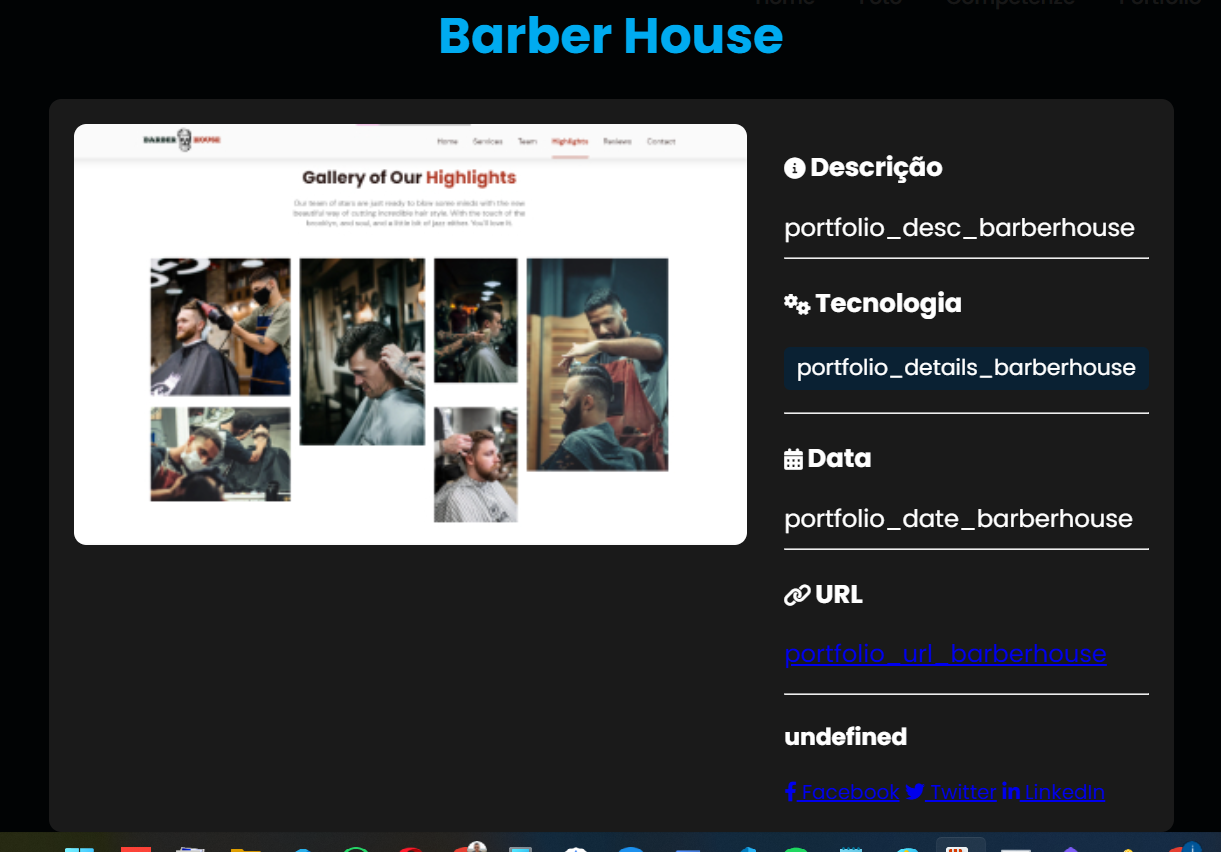
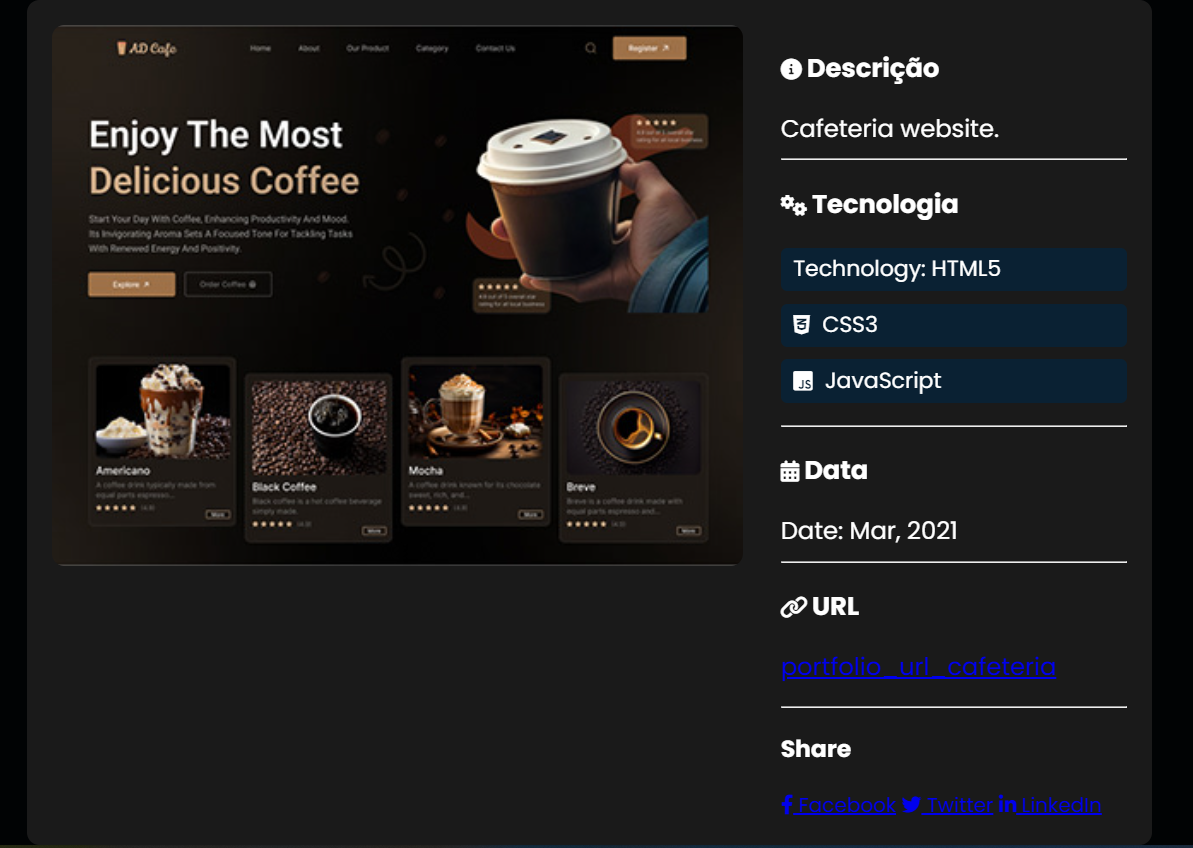
feat: Remove tópicos de Data, URL e Share do modal do portfólio e atualiza CSS.

diff --git a/script.js b/script.js
@@ -158,16 +158,8 @@ document.addEventListener('DOMContentLoaded', function() {
                 const title = item.querySelector('.portfolio-title').textContent; // This title is not i18n, it's from the item itself
                 const descriptionKey = item.dataset.description;
                 const detailsKey = item.dataset.details;
-                const dateKey = item.dataset.date;
-                const urlKey = item.dataset.url;
-
-                modalImage.src = imgSrc;
-                modalTitle.textContent = title; // Keep this as it is the project title
-
                 const description = translations[descriptionKey] || descriptionKey;
                 const details = translations[detailsKey] || detailsKey;
-                const date = translations[dateKey] || dateKey;
-                const url = translations[urlKey] || urlKey;
 
                 let detailsHtml = '<h3><i class="fas fa-info-circle"></i> Descrição</h3>';
                 detailsHtml += `<p>${description}</p><hr>`;
@@ -202,24 +194,8 @@ document.addEventListener('DOMContentLoaded', function() {
                 detailsHtml += '<h3><i class="fas fa-cogs"></i> Tecnologia</h3>';
                 detailsHtml += `<ul class="technologies">${techHtml}</ul>`;
 
-                if (date) {
-                    detailsHtml += `<hr><h3><i class="fas fa-calendar-alt"></i> Data</h3><p>${date}</p>`;
-                }
-                if (url && url !== "") {
-                    detailsHtml += `<hr><h3><i class="fas fa-link"></i> URL</h3><p><a href="${url}" target="_blank">${url}</a></p>`;
-                }
-
                 modalDescription.innerHTML = detailsHtml;
                 modalDetails.innerHTML = ''; // Clear the old details
-
-                // Populate modalShare with sharing options
-                modalShare.innerHTML = `
-                    <hr>
-                    <h3>${translations['modal_share_text']}</h3>
-                    <a href="https://www.facebook.com/sharer/sharer.php?u=${encodeURIComponent(window.location.href)}" target="_blank" class="share-button facebook"><i class="fab fa-facebook-f"></i> Facebook</a>
-                    <a href="https://twitter.com/intent/tweet?url=${encodeURIComponent(window.location.href)}&text=${encodeURIComponent(title)}" target="_blank" class="share-button twitter"><i class="fab fa-twitter"></i> Twitter</a>
-                    <a href="https://www.linkedin.com/shareArticle?mini=true&url=${encodeURIComponent(window.location.href)}&title=${encodeURIComponent(title)}" target="_blank" class="share-button linkedin"><i class="fab fa-linkedin-in"></i> LinkedIn</a>
-                `;
 
                 modal.style.display = 'block';
             });

diff --git a/portfolio.html b/portfolio.html
@@ -81,7 +81,6 @@
             <div class="modal-info">
                 <p class="modal-description"></p>
                 <p class="modal-details"></p>
-                <div class="modal-share" data-i18n="modal_share_text"></div>
             </div>
         </div>
     </div>
